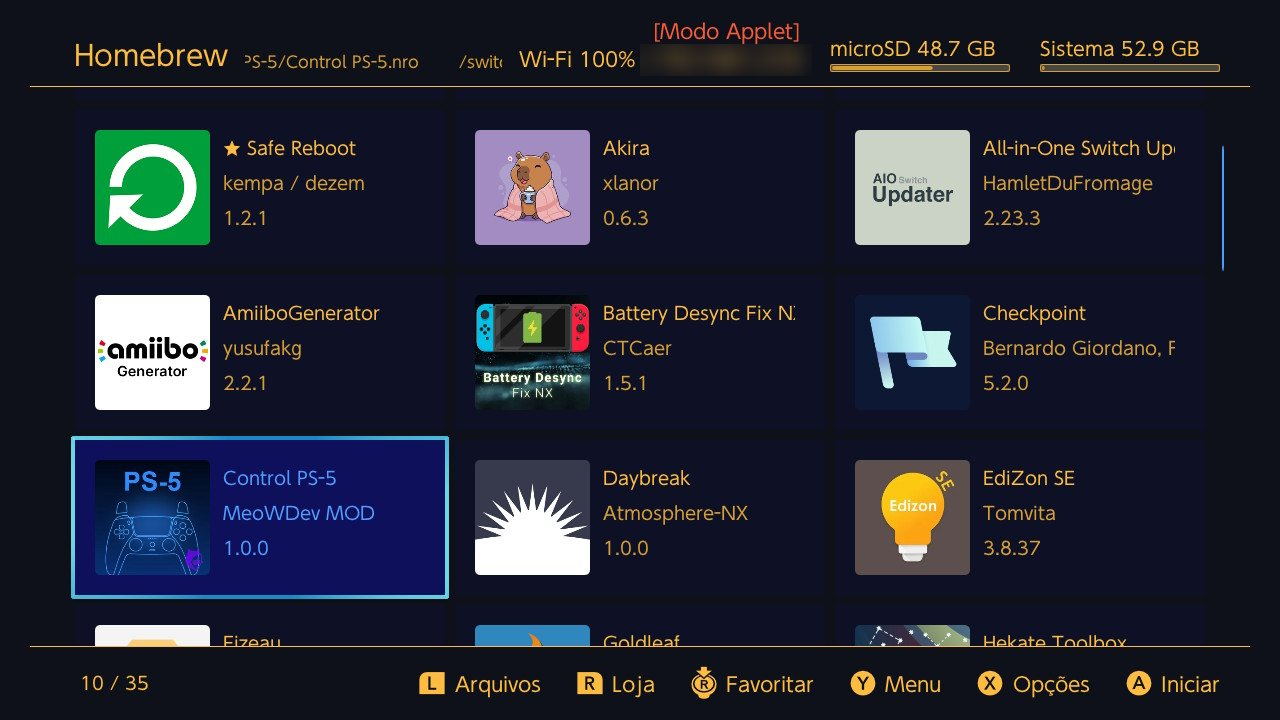
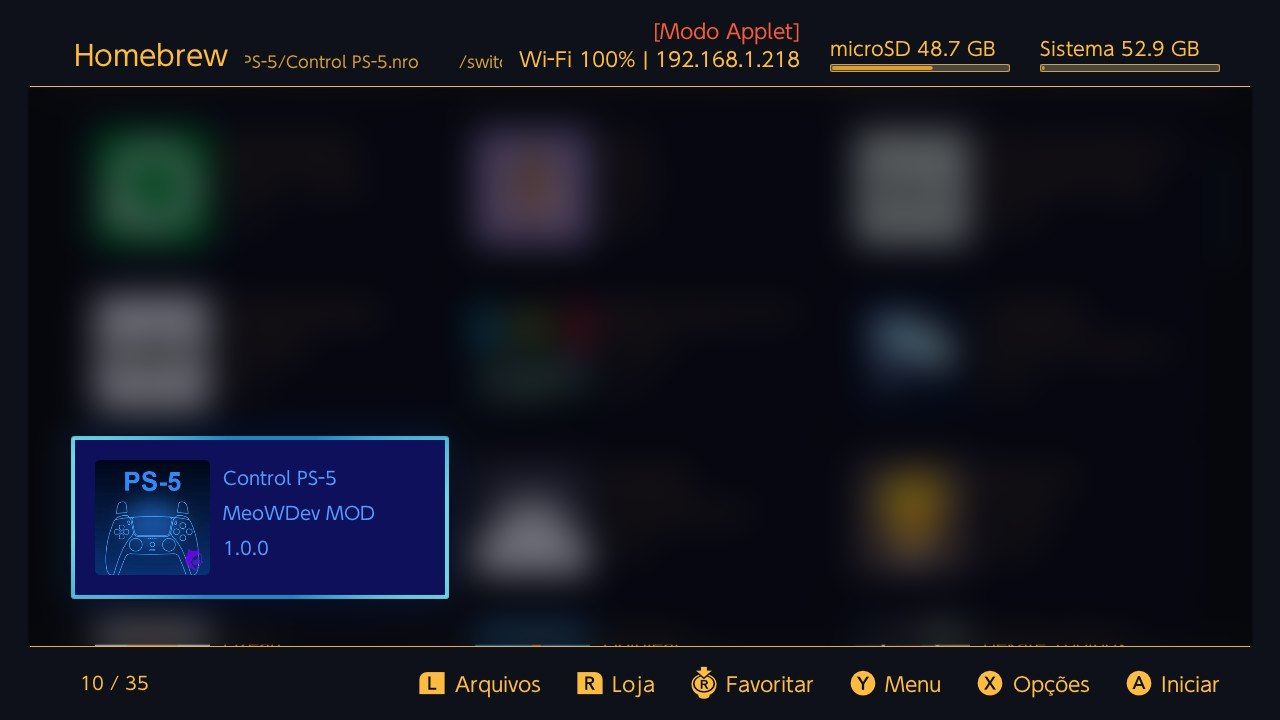
Print do menu Homebrew com o foco só no Control PS-5
Os outros homebrews do console ficam desfocados, sem nome legível, no tutorial, na galeria,
na cena 3D e na imagem do bloco da Dat Zero.

diff --git a/index.html b/index.html
@@ -491,7 +491,7 @@
         </ul>
       </div>
       <div class="dz-oferta">
-        <img class="dz-switch" src="img/nintendo-switch-com-control-ps5-no-menu-homebrew.webp" width="900" height="418" loading="lazy" alt="Nintendo Switch mostrando o menu Homebrew com o app Control PS-5 selecionado">
+        <img class="dz-switch" src="img/nintendo-switch-com-control-ps5-no-menu-homebrew.webp" width="900" height="396" loading="lazy" alt="Nintendo Switch mostrando o menu Homebrew com o app Control PS-5 selecionado">
         <div class="dz-preco"><small>Desbloqueio do Nintendo Switch</small><b>R$ 339,90</b></div>
         <a class="b wa magnetic" style="min-height:56px;font-size:17px;width:100%" href="https://wa.me/5521986070618?text=Ol%C3%A1!%20Vim%20pela%20p%C3%A1gina%20do%20Control%20PS-5%20e%20quero%20desbloquear%20meu%20Nintendo%20Switch." target="_blank" rel="noopener"><svg style="width:20px;height:20px;fill:currentColor"><use href="#s-wa"/></svg>Chamar no WhatsApp</a>
         <p class="dz-end"><svg class="i"><use href="#i-pin"/></svg><a href="https://www.google.com/maps/search/?api=1&query=Rua+Alfredo+Reis+68+Piedade+Rio+de+Janeiro+20740-190" target="_blank" rel="noopener">Rua Alfredo Reis, 68, Piedade, Rio de Janeiro</a></p>

diff --git a/site-src/foco_homebrew.py b/site-src/foco_homebrew.py
@@ -1,0 +1,34 @@
+# Print do menu Homebrew com o foco só no Control PS-5: o resto da lista fica desfocado e escuro, sem nome legível.
+# O print real mostra outros homebrews do console (como instaladores e geradores), que não têm relação com o projeto
+# e destoam do aviso legal da página. Uso: python site-src/foco_homebrew.py
+import os
+
+from PIL import Image, ImageChops, ImageDraw, ImageFilter
+
+AQUI = os.path.dirname(os.path.abspath(__file__))
+RAIZ = os.path.join(AQUI, "..")
+ORIGEM = os.path.join(RAIZ, "..", "..", "print", "2026101507514100.jpg")
+
+LISTA = (28, 88, 1252, 645)     # área da lista, entre as linhas do cabeçalho e do rodapé (print de 1280x720)
+APP = (70, 435, 450, 600)       # cartão do Control PS-5, com a borda de seleção
+
+
+def foco(im):
+    im = im.convert("RGB")
+    borrado = im.filter(ImageFilter.GaussianBlur(17))
+    borrado = ImageChops.multiply(borrado, Image.new("RGB", im.size, (112, 112, 122)))
+    # máscara: branco = fica borrado; a borda suave evita um corte seco na volta da lista
+    k = 3
+    m = Image.new("L", (im.width * k, im.height * k), 0)
+    d = ImageDraw.Draw(m)
+    d.rectangle([v * k for v in LISTA], fill=255)
+    d.rounded_rectangle([v * k for v in APP], radius=6 * k, fill=0)
+    m = m.resize(im.size, Image.LANCZOS).filter(ImageFilter.GaussianBlur(0.8))
+    return Image.composite(borrado, im, m)
+
+
+if __name__ == "__main__":
+    novo = foco(Image.open(ORIGEM))
+    novo.save(os.path.join(RAIZ, "img", "menu-homebrew-com-control-ps5-no-nintendo-switch.webp"), quality=82, method=6)
+    novo.save(os.path.join(RAIZ, "assets", "screens", "homebrew.jpg"), quality=86, optimize=True)
+    print("ok")

diff --git a/site-src/preparar_imagens.py b/site-src/preparar_imagens.py
@@ -6,6 +6,9 @@ import sys
 
 from PIL import Image, ImageDraw
 
+sys.path.insert(0, os.path.dirname(os.path.abspath(__file__)))
+from foco_homebrew import foco  # noqa: E402
+
 AQUI = os.path.dirname(os.path.abspath(__file__))
 RAIZ = os.path.join(AQUI, "..")
 PRINTS = os.path.join(RAIZ, "..", "..", "print")
@@ -18,7 +21,10 @@ TELAS = {
     "2026101508034200": "aperte-l-e-r-para-sincronizar-controle-ps5-no-switch",
 }
 for orig, nome in TELAS.items():
-    Image.open(os.path.join(PRINTS, orig + ".jpg")).convert("RGB").save(os.path.join(IMG, nome + ".webp"), quality=80, method=6)
+    im = Image.open(os.path.join(PRINTS, orig + ".jpg")).convert("RGB")
+    if nome.startswith("menu-homebrew"):
+        im = foco(im)   # só o Control PS-5 fica legível (ver foco_homebrew.py)
+    im.save(os.path.join(IMG, nome + ".webp"), quality=80, method=6)
 
 # Telas do app: as da interface atual, geradas pela prévia do app (mesmo código de desenho do console)
 PREVIA = os.path.join(RAIZ, "..", "dist", "previa-telas")

diff --git a/site-src/LEIA-ME.md b/site-src/LEIA-ME.md
@@ -5,7 +5,7 @@ O site é publicado direto da raiz deste repositório (GitHub Pages, branch `mai
 - `cena3d.js`: a cena do Nintendo Switch (3D) e do controle de PS5. Gera `js/cena3d.js`, com o Three.js junto:
   `NODE_PATH="<pasta com three instalado>/node_modules" esbuild site-src/cena3d.js --bundle --minify --format=esm --target=es2020 --outfile=js/cena3d.js`
 - `frente.json` e `img/dualsense-frente.webp`: o controle, o mesmo desenho de frente do app, separado em peças. Os dois são gerados por `app/tools/gerar_controle2d.py`, fora deste repositório. No site, como no app, o controle fica de frente e só balança de leve.
-- `preparar_imagens.py`: gera `img/`. As telas do sistema (menu Homebrew, tela Controles) são capturas reais do Switch, da pasta `print` do projeto. As telas do app vêm da prévia do app (`dist/previa-telas`), que usa o mesmo código de desenho do console, com dados de exemplo.
+- `preparar_imagens.py`: gera `img/`. As telas do sistema (menu Homebrew, tela Controles) são capturas reais do Switch, da pasta `print` do projeto. As telas do app vêm da prévia do app (`dist/previa-telas`), que usa o mesmo código de desenho do console, com dados de exemplo. No print do menu Homebrew, `foco_homebrew.py` deixa só o Control PS-5 legível; a imagem do bloco da Dat Zero é a cena do Switch mostrando esse print.
 
 Na tela do Switch aparecem as telas do app, na ordem do tutorial (`TELAS` e `aplica` em `cena3d.js`). A cena não traz logo da Nintendo nem da Sony.
 
